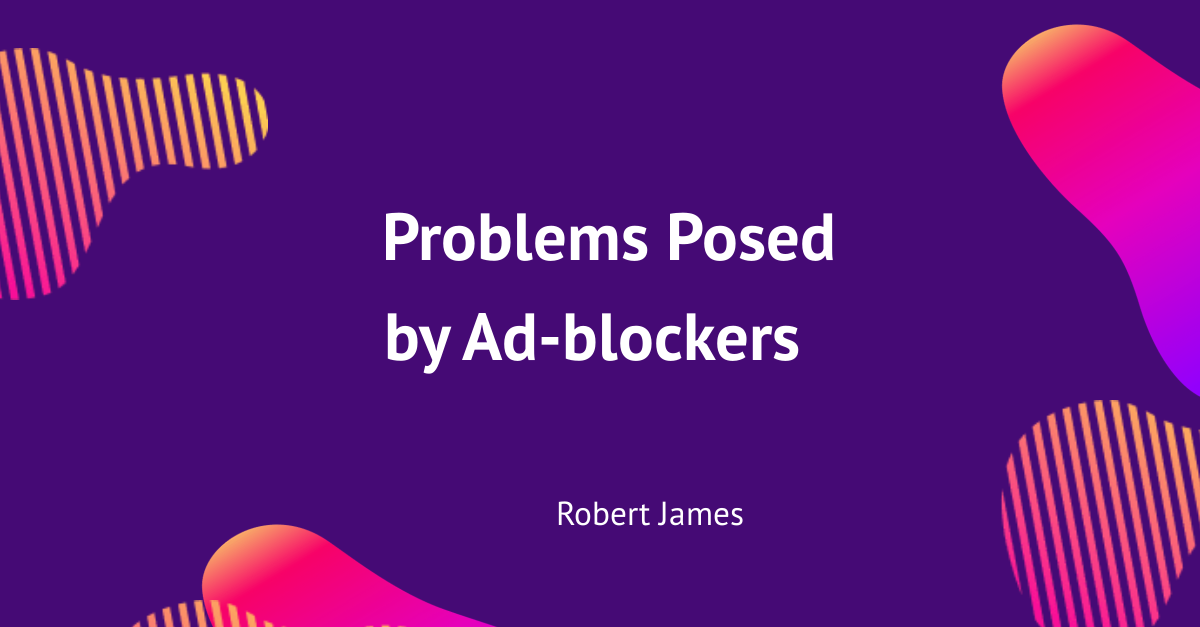
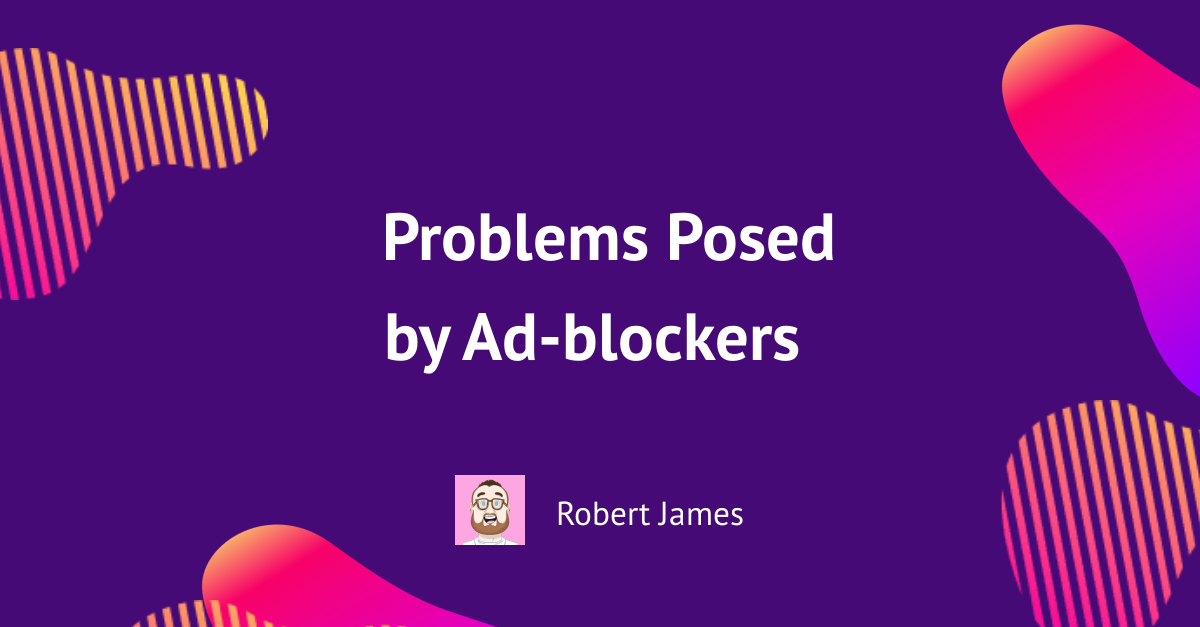
Deploying to gh-pages from  @ 273b55a650fcdbcfa6b5ed0333d53ff14a80d89c 🚀

Changed region(s): [[0.37, 0.7576, 0.4625, 0.8788]]

diff --git a/service-worker.js b/service-worker.js
@@ -32,7 +32,7 @@ self.__precacheManifest = [
   },
   {
     "url": "404.png",
-    "revision": "28f61b4cc7c686f3eb305cb66c3bae38"
+    "revision": "385a8ecb6e3e2805a6ca9c4f1573c13e"
   },
   {
     "url": "apps/index.html",
@@ -40,7 +40,7 @@ self.__precacheManifest = [
   },
   {
     "url": "apps/index.png",
-    "revision": "fc69d91816ad8b32fc47fb3bccb68ebb"
+    "revision": "d5dad45ff1399ac3bd1b98dd034a1e49"
   },
   {
     "url": "assets/css/blog.css",
@@ -268,7 +268,7 @@ self.__precacheManifest = [
   },
   {
     "url": "awards/index.png",
-    "revision": "d2874b5ae1f1e970af36875010dc8372"
+    "revision": "e78bd6a22dde3673090cf975c697574e"
   },
   {
     "url": "blog/adblockers/index.html",
@@ -276,7 +276,7 @@ self.__precacheManifest = [
   },
   {
     "url": "blog/adblockers/index.png",
-    "revision": "f7f146862aef010882e03c8144d0d750"
+    "revision": "44bf1f7fc049b98a64151b784757e5a5"
   },
   {
     "url": "blog/bag/index.html",
@@ -284,7 +284,7 @@ self.__precacheManifest = [
   },
   {
     "url": "blog/bag/index.png",
-    "revision": "69845779192c672697b4ef52145daa8c"
+    "revision": "9701b70d60a0bf353b69c91198904efa"
   },
   {
     "url": "blog/index.html",
@@ -292,7 +292,7 @@ self.__precacheManifest = [
   },
   {
     "url": "blog/index.png",
-    "revision": "1b5cc4d175b2aaa26610b2d331632454"
+    "revision": "89969ea7f9c1acc12c4f5e867645e822"
   },
   {
     "url": "blog/research-into-web-accessibility-for-dyslexics/index.html",
@@ -300,7 +300,7 @@ self.__precacheManifest = [
   },
   {
     "url": "blog/research-into-web-accessibility-for-dyslexics/index.png",
-    "revision": "b5201a2f58a5d48fff354f8f5527e11c"
+    "revision": "5ef0b12de29f5c6c3f37005dfd315dd6"
   },
   {
     "url": "cailin/index.html",
@@ -308,7 +308,7 @@ self.__precacheManifest = [
   },
   {
     "url": "cailin/index.png",
-    "revision": "1b5cc4d175b2aaa26610b2d331632454"
+    "revision": "89969ea7f9c1acc12c4f5e867645e822"
   },
   {
     "url": "contact/index.html",
@@ -316,7 +316,7 @@ self.__precacheManifest = [
   },
   {
     "url": "contact/index.png",
-    "revision": "9a311bf57eed590d1fc435b34c7442b7"
+    "revision": "cfafa168fe87f7cfb7e875ac2ffb7059"
   },
   {
     "url": "css/chrome-dino/index.html",
@@ -324,7 +324,7 @@ self.__precacheManifest = [
   },
   {
     "url": "css/chrome-dino/index.png",
-    "revision": "54f34da73a0699b63882e164e6862f4e"
+    "revision": "ef8460eabf6743d820f8969417288a3c"
   },
   {
     "url": "css/imac/index.html",
@@ -332,7 +332,7 @@ self.__precacheManifest = [
   },
   {
     "url": "css/imac/index.png",
-    "revision": "ebb9eee0c1fdb0ac198ec024d21781c8"
+    "revision": "857969c0d46b919519209c71c25130ee"
   },
   {
     "url": "index.html",
@@ -340,7 +340,7 @@ self.__precacheManifest = [
   },
   {
     "url": "index.png",
-    "revision": "31a71abb3dfecfe87b4cea0996fa79f9"
+    "revision": "20590ace41836b629307b56cae2eb0aa"
   },
   {
     "url": "sitemap/index.html",
@@ -348,7 +348,7 @@ self.__precacheManifest = [
   },
   {
     "url": "sitemap/index.png",
-    "revision": "536f13eaa265856baa6723daa04134c5"
+    "revision": "2ab5caf85945eb1c9841111ea3361595"
   },
   {
     "url": "talks/index.html",
@@ -356,7 +356,7 @@ self.__precacheManifest = [
   },
   {
     "url": "talks/index.png",
-    "revision": "52c5d8de905fafd3b2f0186ff345be9a"
+    "revision": "4a5118555059926e650245ef62737f9b"
   },
   {
     "url": "websites/index.html",
@@ -364,7 +364,7 @@ self.__precacheManifest = [
   },
   {
     "url": "websites/index.png",
-    "revision": "7a4f02185af13e20e07967f7022e63e5"
+    "revision": "4e1fbfe031cb8e62d3a81459c96ff617"
   },
   {
     "url": "work/index.html",
@@ -372,7 +372,7 @@ self.__precacheManifest = [
   },
   {
     "url": "work/index.png",
-    "revision": "1b5cc4d175b2aaa26610b2d331632454"
+    "revision": "89969ea7f9c1acc12c4f5e867645e822"
   },
   {
     "url": "worldmap/index.html",
@@ -380,7 +380,7 @@ self.__precacheManifest = [
   },
   {
     "url": "worldmap/index.png",
-    "revision": "4a6cb54532f278c28944b6cd33bd8db1"
+    "revision": "cc52d1c4e412bc7d3b9fbd90c13246e9"
   }
 ].concat(self.__precacheManifest || []);
 workbox.precaching.precacheAndRoute(self.__precacheManifest, {});
